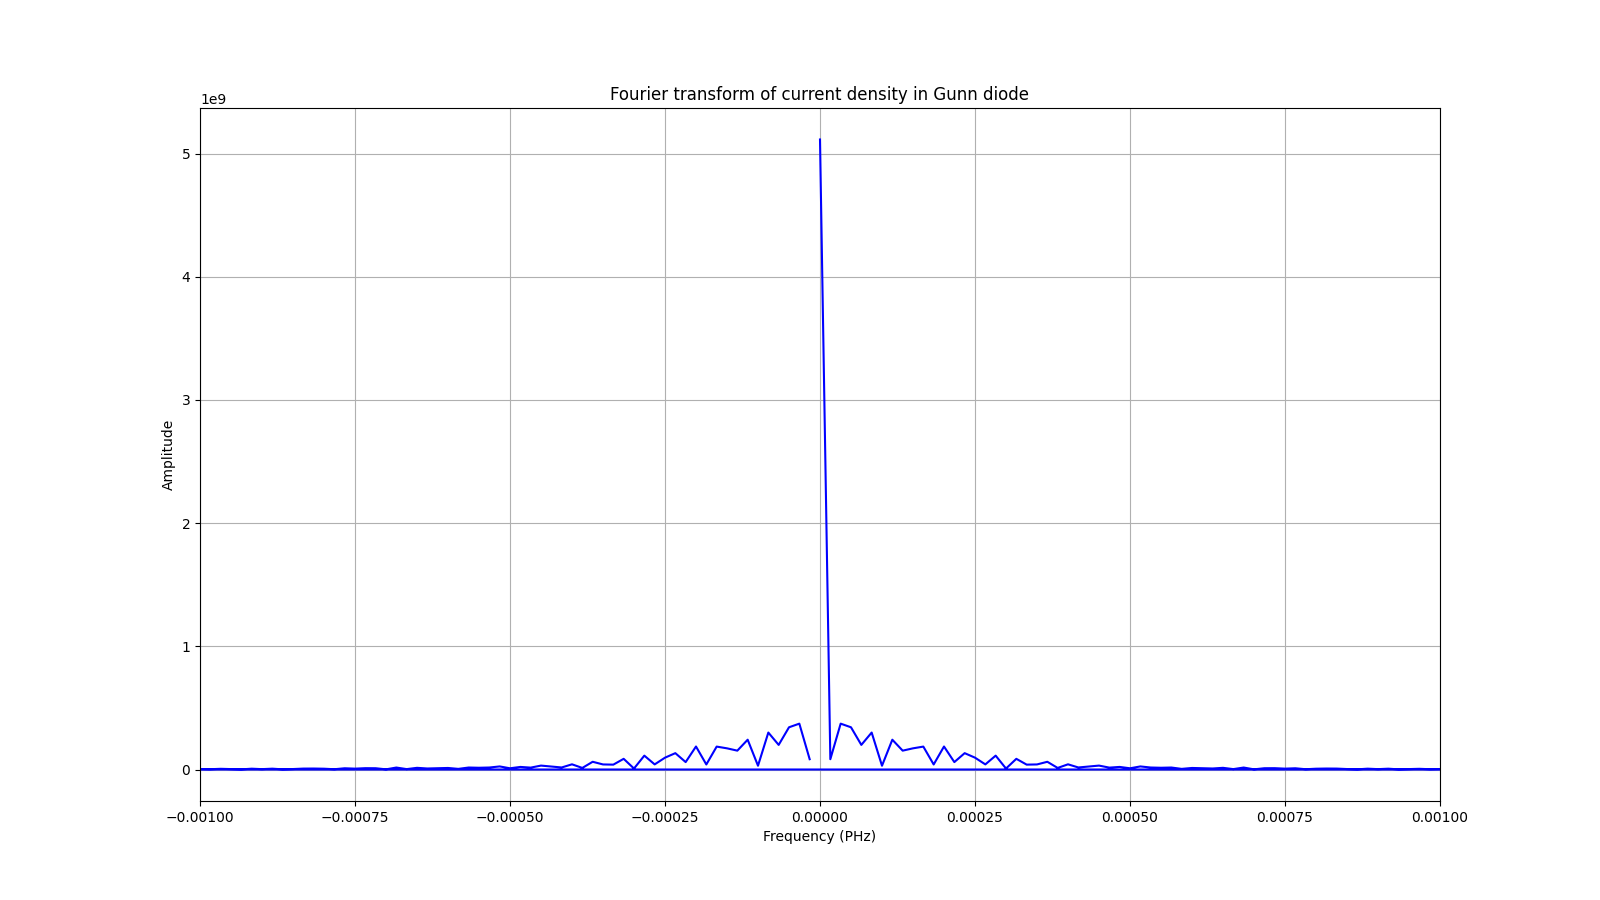
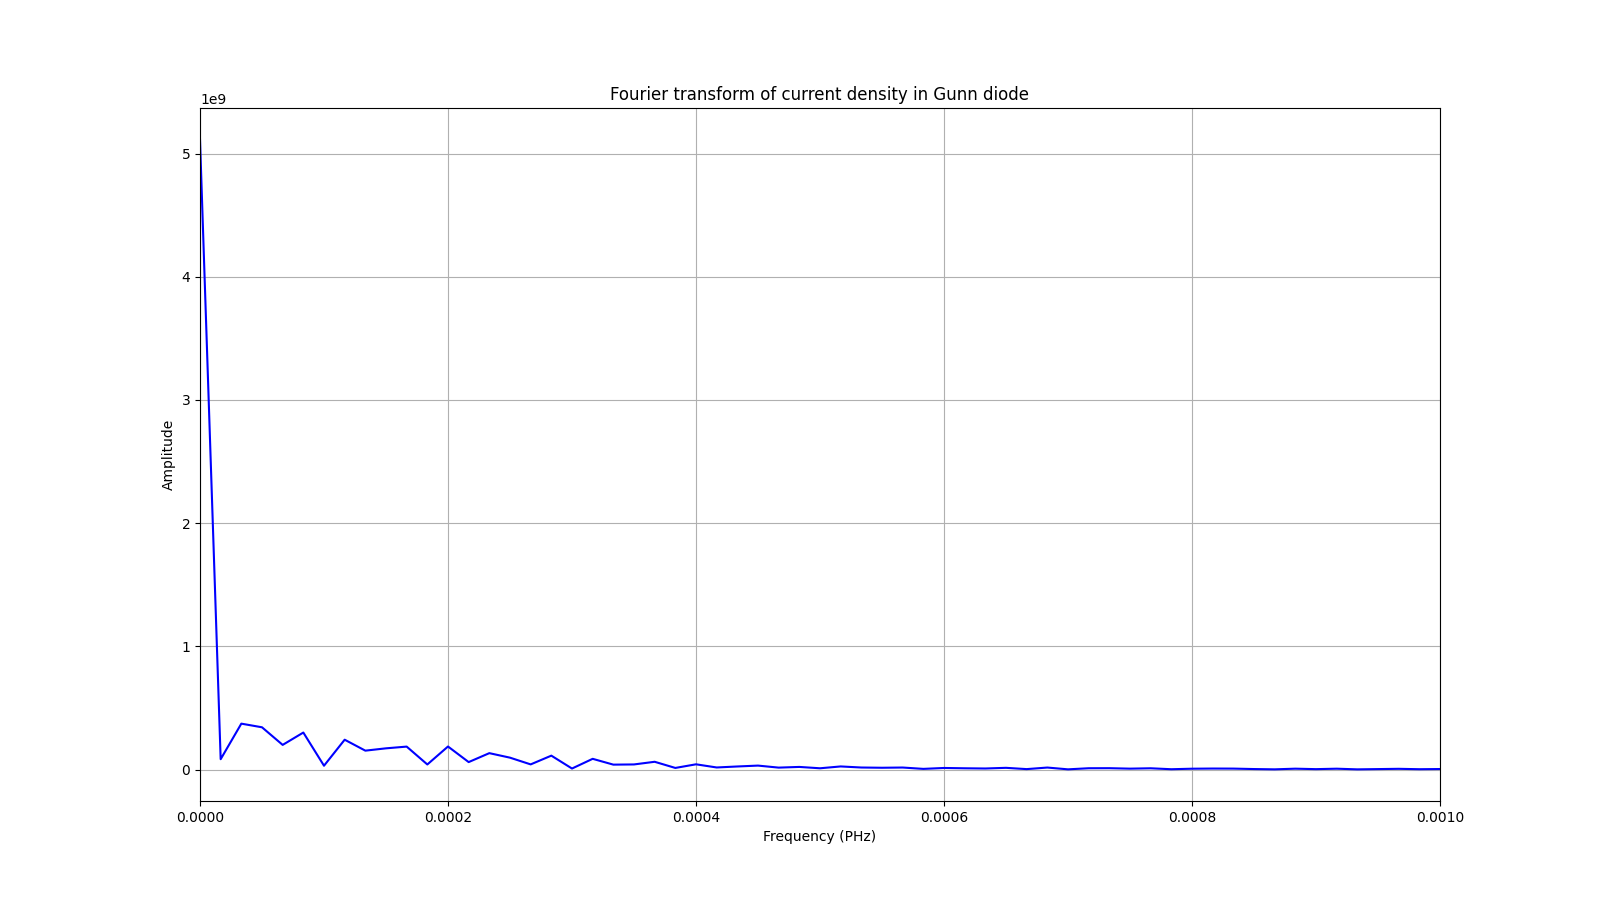
Descriptive text added to the code.

diff --git a/analysis/single-file/single-data.py b/analysis/single-file/single-data.py
@@ -33,7 +33,7 @@ print("\n", valid_data.describe())  # print some statistics
 print("\n", valid_data.head(5))  # print the first 5 rows
 print("\n", valid_data.tail(5))  # print the last 5 rows
 
-print("\nPlotting the data...\n")
+print("\nPlotting the data...")
 
 # plot the datafile
 first_plot = valid_data.plot(
@@ -57,17 +57,24 @@ print("Plot saved as plot.png\n")
 print("\nPerforming Fourier transform...\n")
 N=len(valid_data) # number of data points
 dt=0.2 # 0.2 fs time step
-print("\nNumber of data points: ", N)
+print("Number of data points: ", N)
 print("Time step: ", dt)
 
 currents_array=valid_data['Current'].to_numpy() # convert the current density to a numpy array, as a dataframe column is not a valid input for the fft function
 
-fft_amplitude =fft(currents_array) # fourier transform of the current density
-fft_freq = fftfreq(N, dt) # fourier frequencies
+fft_amplitude =fft(currents_array)[:N//2] # fourier transform of the current density
+fft_freq = fftfreq(N, dt)[:N//2] # fourier frequencies
 # [:N//2] is used to keep only the positive frequencies, as the fft function returns the negative frequencies after the positive ones
 
 fourier = pd.DataFrame({'Frequency':fft_freq, 'Amplitude':np.abs(fft_amplitude)}) # type: ignore # create a dataframe with the fourier data
-print("\n", fourier.head(10))  # print the first 10 rows
+
+print("Fourier transform performed successfully. Showing some statistics and some rows:\n")
+
+print("\n", fourier.describe())  # print some statistics
+print("\n", fourier.head(5))  # print the first 5 rows
+print("\n", fourier.tail(5))  # print the last 5 rows
+
+print("\nPlotting the Fourier transform...")
 
 fourier_plot=fourier.plot(
     x='Frequency',
@@ -79,6 +86,8 @@ fourier_plot=fourier.plot(
     style='b-',  # blue color, solid line
     grid=True,
     legend=False,
-    xlim=([-1e-3,1e-3])  # limit x axis
+    xlim=([0,1e-3])  # limit x axis
 )
 plt.savefig('fourier.png')
+
+print("Fourier plot saved as fourier.png\n")
